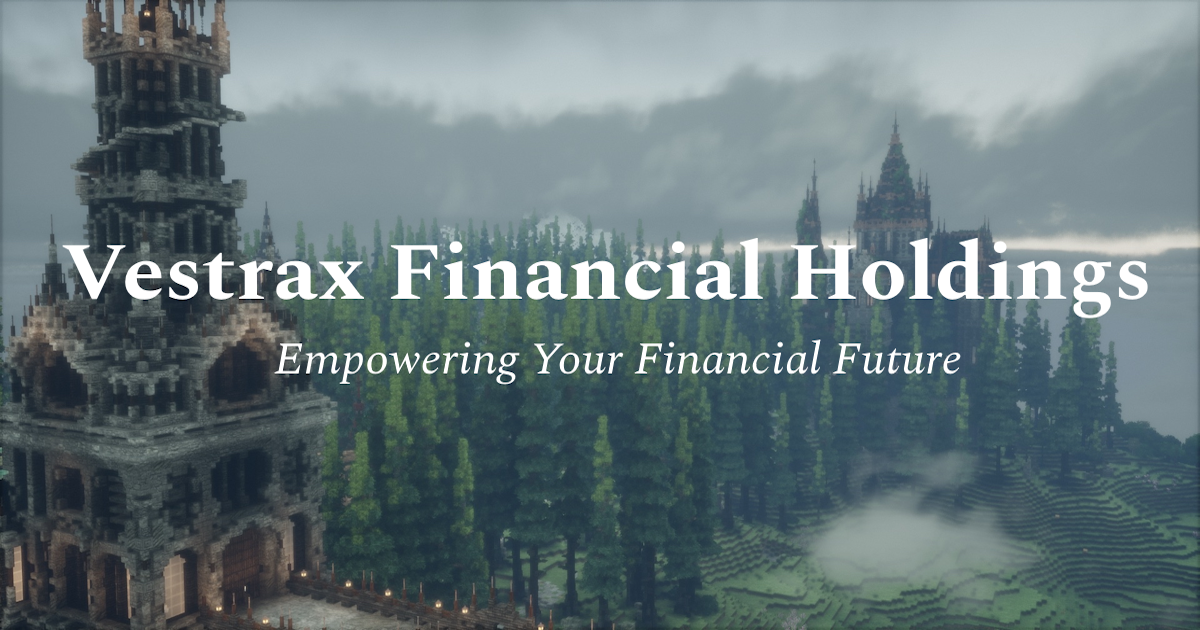
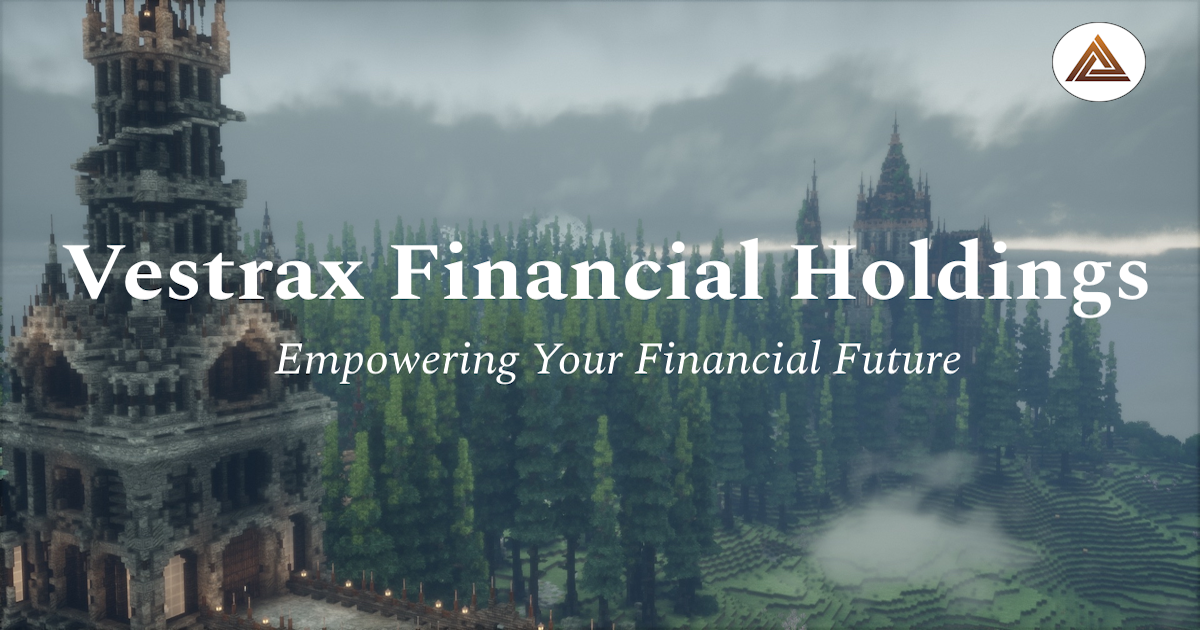
Udpated website

Changed region(s): [[0.8633, 0.0302, 0.9558, 0.181]]

diff --git a/about/index.html b/about/index.html
@@ -12,7 +12,7 @@
 <meta property="og:description" content="Vestrax Financial Holdings is dedicated to delivering above-market returns, disciplined investment management, and diverse investment opportunities for our investors.">
 <meta property="og:type" content="website">
 <meta property="og:url" content="https://brainstormkid.github.io/vestraxfinancial">
-<meta property="og:image" content="https://brainstormkid.github.io/vestraxfinancial/images/VestraxImage.png">
+<meta property="og:image" content="https://brainstormkid.github.io/vestraxfinancial/images/VestraxAbout.png">
 <meta property="og:image:width" content="1200">
 <meta property="og:image:height" content="630">
 
